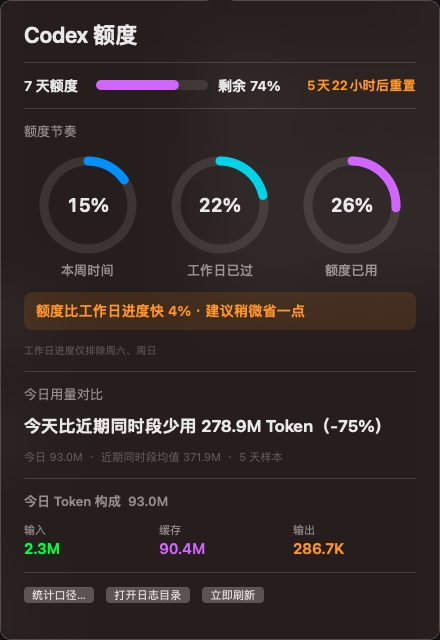
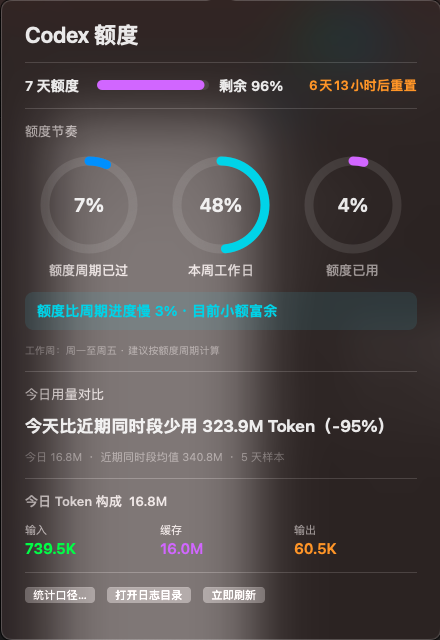
fix: align quota and workweek pacing

diff --git a/Tests/main.swift b/Tests/main.swift
@@ -74,6 +74,22 @@ let noProxyCandidates = SystemProxyEnvironment.candidates(
 )
 check(noProxyCandidates.count == 1 && noProxyCandidates[0]["PATH"] == "/usr/bin",
       "Codex uses direct access without proxy configuration")
+check(PopoverDismissalPolicy.shouldClose(isGlobalEvent: true,
+                                         isPopoverWindow: false,
+                                         isStatusItemWindow: false),
+      "A click in another application closes the quota popover")
+check(PopoverDismissalPolicy.shouldClose(isGlobalEvent: false,
+                                         isPopoverWindow: false,
+                                         isStatusItemWindow: false),
+      "A click in another local window closes the quota popover")
+check(!PopoverDismissalPolicy.shouldClose(isGlobalEvent: false,
+                                          isPopoverWindow: true,
+                                          isStatusItemWindow: false),
+      "A click inside the quota popover keeps it open")
+check(!PopoverDismissalPolicy.shouldClose(isGlobalEvent: false,
+                                          isPopoverWindow: false,
+                                          isStatusItemWindow: true),
+      "The status item click is left to the toggle action")
 
 var touchBarCalendar = Calendar(identifier: .gregorian)
 touchBarCalendar.timeZone = TimeZone(secondsFromGMT: 0)!
@@ -98,14 +114,13 @@ let touchBarPresentation = TouchBarQuotaPresenter.make(
         updatedAt: touchBarNow,
         sourceDescription: "test"
     ),
-    now: touchBarNow,
-    calendar: touchBarCalendar
+    now: touchBarNow
 )
 check(touchBarPresentation?.title == "Codex 周额度", "Touch Bar uses an explicit title")
 check(touchBarPresentation?.remaining == "79%", "Touch Bar emphasizes remaining quota")
 check(touchBarPresentation?.used == "已用 21%", "Touch Bar explains current usage")
 check(touchBarPresentation?.reset == "5天12小时后重置", "Touch Bar explains the reset cycle")
-check(touchBarPresentation?.pace == "工作日慢 9%", "Touch Bar uses workday pace")
+check(touchBarPresentation?.pace == "周期匹配", "Touch Bar compares quota with its own cycle")
 
 var workdayCalendar = Calendar(identifier: .gregorian)
 workdayCalendar.timeZone = TimeZone(secondsFromGMT: 0)!
@@ -132,6 +147,19 @@ check(abs((workdayPace?.elapsedPercent ?? 0) - 50) < 0.001,
       "Workday pace excludes Saturday and Sunday")
 check(abs((workdayPace?.deltaPercentagePoints ?? 0) - 10) < 0.001,
       "Workday pace compares quota usage with weekday progress")
+let calendarWorkweekWednesday = QuotaPaceCalculator.calendarWorkweekElapsedPercent(
+    now: workdayNow, calendar: workdayCalendar
+)
+check(abs(calendarWorkweekWednesday - 50) < 0.001,
+      "Calendar workweek is halfway through on Wednesday noon")
+let calendarWorkweekSunday = QuotaPaceCalculator.calendarWorkweekElapsedPercent(
+    now: workdayCalendar.date(from: DateComponents(
+        year: 2026, month: 8, day: 30, hour: 12
+    ))!,
+    calendar: workdayCalendar
+)
+check(abs(calendarWorkweekSunday - 100) < 0.001,
+      "Calendar workweek remains complete during the weekend")
 check(DashboardCopy.tokenHeadline(TokenPace(
     todayTokens: 55_600_000,
     baselineTokens: 357_700_000,
@@ -140,20 +168,20 @@ check(DashboardCopy.tokenHeadline(TokenPace(
     sampleDays: 5
 )) == "今天比近期同时段少用 302.1M Token（-84%）",
       "Dashboard token pace states the absolute difference first")
-check(DashboardCopy.workdayComparison(deltaPercentagePoints: 2.4)
-      == "额度比工作日进度快 2% · 建议稍微省一点",
-      "Dashboard explains quota pace against workday progress")
-check(DashboardCopy.workdayComparison(deltaPercentagePoints: 12)
-      == "额度比工作日进度快 12% · 建议大幅节省",
-      "Dashboard warns when workday overuse is large")
-check(DashboardCopy.workdayComparison(deltaPercentagePoints: -4)
-      == "额度比工作日进度慢 4% · 目前小额富余",
-      "Dashboard identifies a small workday surplus")
-check(DashboardCopy.workdayComparison(deltaPercentagePoints: -12)
-      == "额度比工作日进度慢 12% · 目前大额富余",
-      "Dashboard identifies a large workday surplus")
-check(DashboardCopy.workdayComparison(deltaPercentagePoints: 0.8)
-      == "额度与工作日进度基本匹配",
+check(DashboardCopy.cycleComparison(deltaPercentagePoints: 2.4)
+      == "额度比周期进度快 2% · 建议稍微省一点",
+      "Dashboard compares quota with its matching cycle")
+check(DashboardCopy.cycleComparison(deltaPercentagePoints: 12)
+      == "额度比周期进度快 12% · 建议大幅节省",
+      "Dashboard warns when cycle overuse is large")
+check(DashboardCopy.cycleComparison(deltaPercentagePoints: -4)
+      == "额度比周期进度慢 4% · 目前小额富余",
+      "Dashboard identifies a small cycle surplus")
+check(DashboardCopy.cycleComparison(deltaPercentagePoints: -12)
+      == "额度比周期进度慢 12% · 目前大额富余",
+      "Dashboard identifies a large cycle surplus")
+check(DashboardCopy.cycleComparison(deltaPercentagePoints: 0.8)
+      == "额度与周期进度基本匹配",
       "Dashboard avoids advice for rounding noise")
 
 let tokenPace = TokenPaceCalculator.calculate(

diff --git a/Sources/CodexQuotaWidget/DashboardViewController.swift b/Sources/CodexQuotaWidget/DashboardViewController.swift
@@ -101,40 +101,40 @@ final class DashboardViewController: NSViewController {
 
     private func addQuotaPace(_ snapshot: ProviderSnapshot) {
         guard let weekly = snapshot.windows.first(where: { $0.kind == .weekly }),
-              let naturalPace = QuotaPaceCalculator.calculate(window: weekly, now: Date()),
-              let workdayPace = QuotaPaceCalculator.calculateWorkday(window: weekly, now: Date())
+              let cyclePace = QuotaPaceCalculator.calculate(window: weekly, now: Date())
         else { return }
+        let calendarWorkweek = QuotaPaceCalculator.calendarWorkweekElapsedPercent(now: Date())
         content.addArrangedSubview(label("额度节奏", size: 13, color: .secondaryLabelColor))
         let rings = NSStackView()
         rings.orientation = .horizontal
         rings.distribution = .fillEqually
         rings.spacing = 4
         rings.widthAnchor.constraint(equalToConstant: 392).isActive = true
-        rings.addArrangedSubview(RingMetricView(title: "本周时间",
-                                               percent: naturalPace.elapsedPercent,
+        rings.addArrangedSubview(RingMetricView(title: "额度周期已过",
+                                               percent: cyclePace.elapsedPercent,
                                                tint: .systemBlue))
-        rings.addArrangedSubview(RingMetricView(title: "工作日已过",
-                                               percent: workdayPace.elapsedPercent,
+        rings.addArrangedSubview(RingMetricView(title: "本周工作日",
+                                               percent: calendarWorkweek,
                                                tint: .systemTeal))
         rings.addArrangedSubview(RingMetricView(title: "额度已用",
-                                               percent: workdayPace.usedPercent,
+                                               percent: cyclePace.usedPercent,
                                                tint: .systemPurple))
         content.addArrangedSubview(rings)
         let insightTint: NSColor
-        if workdayPace.deltaPercentagePoints >= 2 {
+        if cyclePace.deltaPercentagePoints >= 2 {
             insightTint = .systemOrange
-        } else if workdayPace.deltaPercentagePoints <= -2 {
+        } else if cyclePace.deltaPercentagePoints <= -2 {
             insightTint = .systemTeal
         } else {
             insightTint = .systemGreen
         }
         content.addArrangedSubview(InsightBanner(
-            text: DashboardCopy.workdayComparison(
-                deltaPercentagePoints: workdayPace.deltaPercentagePoints
+            text: DashboardCopy.cycleComparison(
+                deltaPercentagePoints: cyclePace.deltaPercentagePoints
             ),
             tint: insightTint
         ))
-        content.addArrangedSubview(label("工作日进度仅排除周六、周日",
+        content.addArrangedSubview(label("工作周：周一至周五 · 建议按额度周期计算",
                                          size: 10, color: .tertiaryLabelColor))
         addDivider()
     }
@@ -242,7 +242,7 @@ final class DashboardViewController: NSViewController {
     @objc private func showMethod() {
         let alert = NSAlert()
         alert.messageText = "统计口径"
-        alert.informativeText = "额度来自本机 Codex app-server。Token 来自本机 Codex 会话日志，只读取 token_count 数值，不读取或上传提示词与回复。今日用量比较今日 00:00 至当前时刻，与此前 7 个自然日同一时段的平均值；少于 3 天不下结论。工作日进度按同一个 7 天额度周期计算，仅排除周六、周日，不包含法定节假日。"
+        alert.informativeText = "额度来自本机 Codex app-server。Token 来自本机 Codex 会话日志，只读取 token_count 数值，不读取或上传提示词与回复。今日用量比较今日 00:00 至当前时刻，与此前 7 个自然日同一时段的平均值；少于 3 天不下结论。本周工作日按自然周一 00:00 至周六 00:00 计算，暂不识别法定节假日和调休；额度建议只比较额度已用和同一额度周期的时间进度。"
         alert.addButton(withTitle: "知道了")
         alert.runModal()
     }

diff --git a/Sources/CodexQuotaWidget/AppMain.swift b/Sources/CodexQuotaWidget/AppMain.swift
@@ -10,6 +10,8 @@ final class AppController: NSObject, NSApplicationDelegate, NSPopoverDelegate {
     private lazy var dashboard = DashboardViewController(store: store)
     private var refreshTimer: Timer?
     private var displayTimer: Timer?
+    private var globalClickMonitor: Any?
+    private var localClickMonitor: Any?
 
     func applicationDidFinishLaunching(_ notification: Notification) {
         let positionKey = "NSStatusItem Preferred Position QuotaStatus"
@@ -42,6 +44,7 @@ final class AppController: NSObject, NSApplicationDelegate, NSPopoverDelegate {
     }
 
     func applicationWillTerminate(_ notification: Notification) {
+        stopOutsideClickMonitoring()
         TouchBarController.shared.restorePresentationMode()
     }
 
@@ -56,6 +59,46 @@ final class AppController: NSObject, NSApplicationDelegate, NSPopoverDelegate {
         else {
             dashboard.rebuild()
             popover.show(relativeTo: button.bounds, of: button, preferredEdge: .minY)
+            startOutsideClickMonitoring()
+        }
+    }
+
+    func popoverDidClose(_ notification: Notification) {
+        stopOutsideClickMonitoring()
+    }
+
+    private func startOutsideClickMonitoring() {
+        stopOutsideClickMonitoring()
+        let events: NSEvent.EventTypeMask = [.leftMouseDown, .rightMouseDown]
+        globalClickMonitor = NSEvent.addGlobalMonitorForEvents(matching: events) { [weak self] _ in
+            DispatchQueue.main.async { self?.closePopoverForOutsideClick() }
+        }
+        localClickMonitor = NSEvent.addLocalMonitorForEvents(matching: events) { [weak self] event in
+            guard let self else { return event }
+            let eventWindow = event.window
+            let shouldClose = PopoverDismissalPolicy.shouldClose(
+                isGlobalEvent: false,
+                isPopoverWindow: eventWindow === self.popover.contentViewController?.view.window,
+                isStatusItemWindow: eventWindow === self.statusItem.button?.window
+            )
+            if shouldClose { self.closePopoverForOutsideClick() }
+            return event
+        }
+    }
+
+    private func closePopoverForOutsideClick() {
+        guard popover.isShown else { return }
+        popover.performClose(nil)
+    }
+
+    private func stopOutsideClickMonitoring() {
+        if let globalClickMonitor {
+            NSEvent.removeMonitor(globalClickMonitor)
+            self.globalClickMonitor = nil
+        }
+        if let localClickMonitor {
+            NSEvent.removeMonitor(localClickMonitor)
+            self.localClickMonitor = nil
         }
     }
 

diff --git a/Sources/QuotaCore/TouchBarQuotaPresenter.swift b/Sources/QuotaCore/TouchBarQuotaPresenter.swift
@@ -19,31 +19,28 @@ struct TouchBarQuotaPresentation: Equatable {
 
 enum TouchBarQuotaPresenter {
     static func make(snapshot: ProviderSnapshot?,
-                     now: Date,
-                     calendar: Calendar = .current) -> TouchBarQuotaPresentation? {
+                     now: Date) -> TouchBarQuotaPresentation? {
         guard let snapshot,
               let weekly = snapshot.windows.first(where: { $0.kind == .weekly })
         else { return nil }
 
-        let pace = QuotaPaceCalculator.calculateWorkday(
-            window: weekly, now: now, calendar: calendar
-        )
+        let pace = QuotaPaceCalculator.calculate(window: weekly, now: now)
         let paceText: String
         let paceTone: TouchBarPaceTone
         if let delta = pace?.deltaPercentagePoints {
             let rounded = Int(abs(delta).rounded())
             if rounded >= 2, delta > 0 {
-                paceText = "工作日快 \(rounded)%"
+                paceText = "周期快 \(rounded)%"
                 paceTone = .fast
             } else if rounded >= 2, delta < 0 {
-                paceText = "工作日慢 \(rounded)%"
+                paceText = "周期慢 \(rounded)%"
                 paceTone = .slow
             } else {
-                paceText = "工作日匹配"
+                paceText = "周期匹配"
                 paceTone = .normal
             }
         } else {
-            paceText = "工作日暂无"
+            paceText = "周期暂无"
             paceTone = .unavailable
         }
 

diff --git a/Sources/QuotaCore/DashboardCopy.swift b/Sources/QuotaCore/DashboardCopy.swift
@@ -7,9 +7,9 @@ enum DashboardCopy {
         return "今天比近期同时段\(direction) \(compactTokens(abs(pace.deltaTokens))) Token（\(sign)\(Int(pace.deltaPercent.rounded()))%）"
     }
 
-    static func workdayComparison(deltaPercentagePoints: Double) -> String {
+    static func cycleComparison(deltaPercentagePoints: Double) -> String {
         let magnitude = abs(deltaPercentagePoints)
-        guard magnitude >= 2 else { return "额度与工作日进度基本匹配" }
+        guard magnitude >= 2 else { return "额度与周期进度基本匹配" }
         let direction = deltaPercentagePoints >= 0 ? "快" : "慢"
         let advice: String
         if deltaPercentagePoints > 0 {
@@ -17,7 +17,7 @@ enum DashboardCopy {
         } else {
             advice = magnitude >= 10 ? "目前大额富余" : "目前小额富余"
         }
-        return "额度比工作日进度\(direction) \(Int(magnitude.rounded()))% · \(advice)"
+        return "额度比周期进度\(direction) \(Int(magnitude.rounded()))% · \(advice)"
     }
 
     static func compactTokens(_ value: Int64) -> String {

diff --git a/Sources/QuotaCore/PaceCalculators.swift b/Sources/QuotaCore/PaceCalculators.swift
@@ -56,6 +56,23 @@ public enum QuotaPaceCalculator {
         )
     }
 
+    public static func calendarWorkweekElapsedPercent(
+        now: Date,
+        calendar: Calendar = .current
+    ) -> Double {
+        let startOfToday = calendar.startOfDay(for: now)
+        let weekday = calendar.component(.weekday, from: startOfToday)
+        let daysSinceMonday = (weekday + 5) % 7
+        guard let monday = calendar.date(byAdding: .day, value: -daysSinceMonday,
+                                         to: startOfToday),
+              let saturday = calendar.date(byAdding: .day, value: 5, to: monday)
+        else { return 0 }
+        let clampedNow = min(saturday, max(monday, now))
+        let duration = saturday.timeIntervalSince(monday)
+        guard duration > 0 else { return 0 }
+        return min(100, max(0, clampedNow.timeIntervalSince(monday) / duration * 100))
+    }
+
     private static func workSeconds(from startAt: Date,
                                     to endAt: Date,
                                     calendar: Calendar) -> TimeInterval {

diff --git a/Sources/QuotaCore/PopoverDismissalPolicy.swift b/Sources/QuotaCore/PopoverDismissalPolicy.swift
@@ -1,0 +1,9 @@
+import Foundation
+
+enum PopoverDismissalPolicy {
+    static func shouldClose(isGlobalEvent: Bool,
+                            isPopoverWindow: Bool,
+                            isStatusItemWindow: Bool) -> Bool {
+        isGlobalEvent || (!isPopoverWindow && !isStatusItemWindow)
+    }
+}

diff --git a/CHANGELOG.md b/CHANGELOG.md
@@ -1,5 +1,15 @@
 # 更新日志
 
+## v2.0.2 - 2026-08-26
+
+### 修复
+
+- 将“本周时间”明确调整为“额度周期已过”。
+- “本周工作日”改为按自然周一至周五计算，不再跟随额度重置日。
+- 额度建议只比较同一额度周期内的时间进度和额度消耗，避免跨周期误判。
+- Touch Bar 节奏同步改为额度周期口径。
+- 点击详情弹层以外的区域时自动关闭详情。
+
 ## v2.0.1 - 2026-08-25
 
 ### 新增
